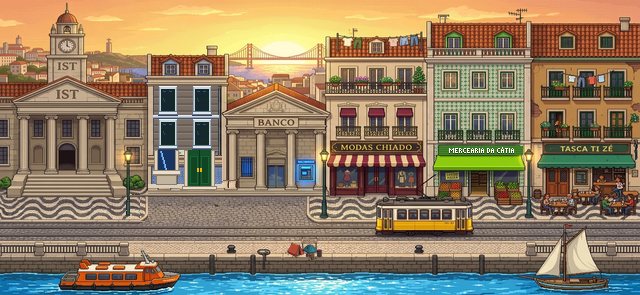
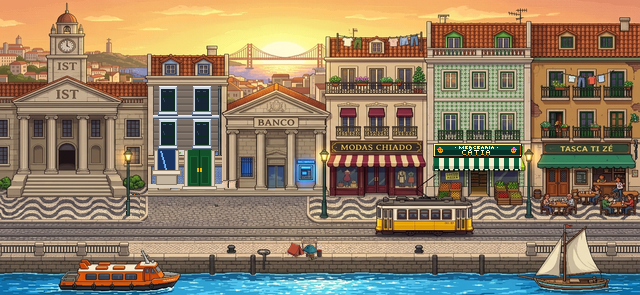
feat: logotipo e tabuleta vintage ornamental da Mercearia da Cátia em harmonia com Lisboa 16-bit v7.0

Changed region(s): [[0.6562, 0.4576, 0.8125, 0.5797]]

diff --git a/index.html b/index.html
@@ -3217,7 +3217,7 @@ ctx.imageSmoothingEnabled = false;
 // ============================================================================
 // 16-BIT BITMAPPED RETRO ASSETS (STARDEW VALLEY / EASTWARD FIDELITY)
 // ============================================================================
-const ASSET_VER = '6.9';
+const ASSET_VER = '7.0';
 const boardImg = new Image();
 boardImg.src = `assets/board.png?v=${ASSET_VER}`;
 
@@ -8212,15 +8212,41 @@ function renderInteriorPingoDoce(ctx, animTimer) {
         ctx.beginPath(); ctx.moveTo(0, y); ctx.lineTo(640, y); ctx.stroke();
     }
 
-    // Letreiros de Secção da Mercearia
-    ctx.fillStyle = '#ffffff';
-    ctx.font = 'bold 11px "Press Start 2P"';
+    // Tabuleta e Logótipo Ornamental da Mercearia Tradicional de Lisboa
+    // Cartouche em madeira nobre com moldura em talha dourada e rosetas
+    ctx.fillStyle = '#3e2723'; // Moldura de nogueira escura
+    ctx.fillRect(80, 14, 480, 54);
+    ctx.strokeStyle = '#f59e0b'; // Filete de ouro pombalino
+    ctx.lineWidth = 2;
+    ctx.strokeRect(80, 14, 480, 54);
+    ctx.strokeStyle = 'rgba(254, 240, 138, 0.6)';
+    ctx.lineWidth = 1;
+    ctx.strokeRect(83, 17, 474, 48);
+
+    // Fundo do painel em verde floresta clássico
+    ctx.fillStyle = '#064e3b';
+    ctx.fillRect(84, 18, 472, 46);
+
+    // Rosetas e Emblemas dourados de canto
+    ctx.fillStyle = '#fde047';
+    ctx.fillRect(87, 21, 4, 4);
+    ctx.fillRect(549, 21, 4, 4);
+    ctx.fillRect(87, 57, 4, 4);
+    ctx.fillRect(549, 57, 4, 4);
+
+    // Tipografia da Mercearia em 2 Níveis com Hierarquia e Nobreza
+    ctx.fillStyle = '#fef08a';
+    ctx.font = 'bold 8.5px "Fira Code"';
     ctx.textAlign = 'center';
-    ctx.fillText("🛒 MERCEARIA DA CÁTIA · FRESCOS & TRADIÇÃO", 320, 36);
+    ctx.fillText("⚜  MERCEARIA TRADICIONAL  ⚜", 320, 31);
+
+    ctx.fillStyle = '#ffffff';
+    ctx.font = 'bold 13px "Press Start 2P"';
+    ctx.fillText("C Á T I A", 320, 48);
 
     ctx.fillStyle = '#86efac';
-    ctx.font = 'bold 9px "Fira Code"';
-    ctx.fillText("PRODUTOS FRESCOS DO DIA · CONSERVAS TRADICIONAIS & PÃO QUENTE", 320, 58);
+    ctx.font = 'bold 8px "Fira Code"';
+    ctx.fillText("~ FRESCOS DA HORTA · CONSERVAS DE LISBOA · PÃO QUENTE DESDE 1928 ~", 320, 60);
 
     // Chão Quadriculado de Supermercado em Perspetiva
     for (let y = 150; y < 295; y += 18) {

diff --git a/tools/test_enhancements.js b/tools/test_enhancements.js
@@ -3,7 +3,7 @@ const assert = require('assert');
 const vm = require('vm');
 
 console.log("=================================================================");
-console.log("SUITE DE TESTES AUTOMATIZADOS: DESENRASCADO v6.9");
+console.log("SUITE DE TESTES AUTOMATIZADOS: DESENRASCADO v7.0");
 console.log("=================================================================\n");
 
 const html = fs.readFileSync('/home/pedro/Projects/desenrascado/index.html', 'utf8');
@@ -244,8 +244,8 @@ console.log("✓ 6. Vinhetas Cinematográficas 16-bit: Efeitos de letterbox, typ
 // -----------------------------------------------------------------------------
 // TESTE 6: VERSÃO DE ASSETS
 // -----------------------------------------------------------------------------
-assert.strictEqual(vm.runInContext("ASSET_VER", sandbox), '6.9', "ASSET_VER incrementado para 6.8");
-console.log("✓ 7. Protocolo de Cache-Busting: ASSET_VER = '6.9' confirmado!");
+assert.strictEqual(vm.runInContext("ASSET_VER", sandbox), '7.0', "ASSET_VER incrementado para 6.8");
+console.log("✓ 7. Protocolo de Cache-Busting: ASSET_VER = '7.0' confirmado!");
 
 console.log("\n=================================================================");
 console.log("RESULTADO FINAL: TODOS OS 7 TESTES PASSARAM COM 100% SUCESSO!");
